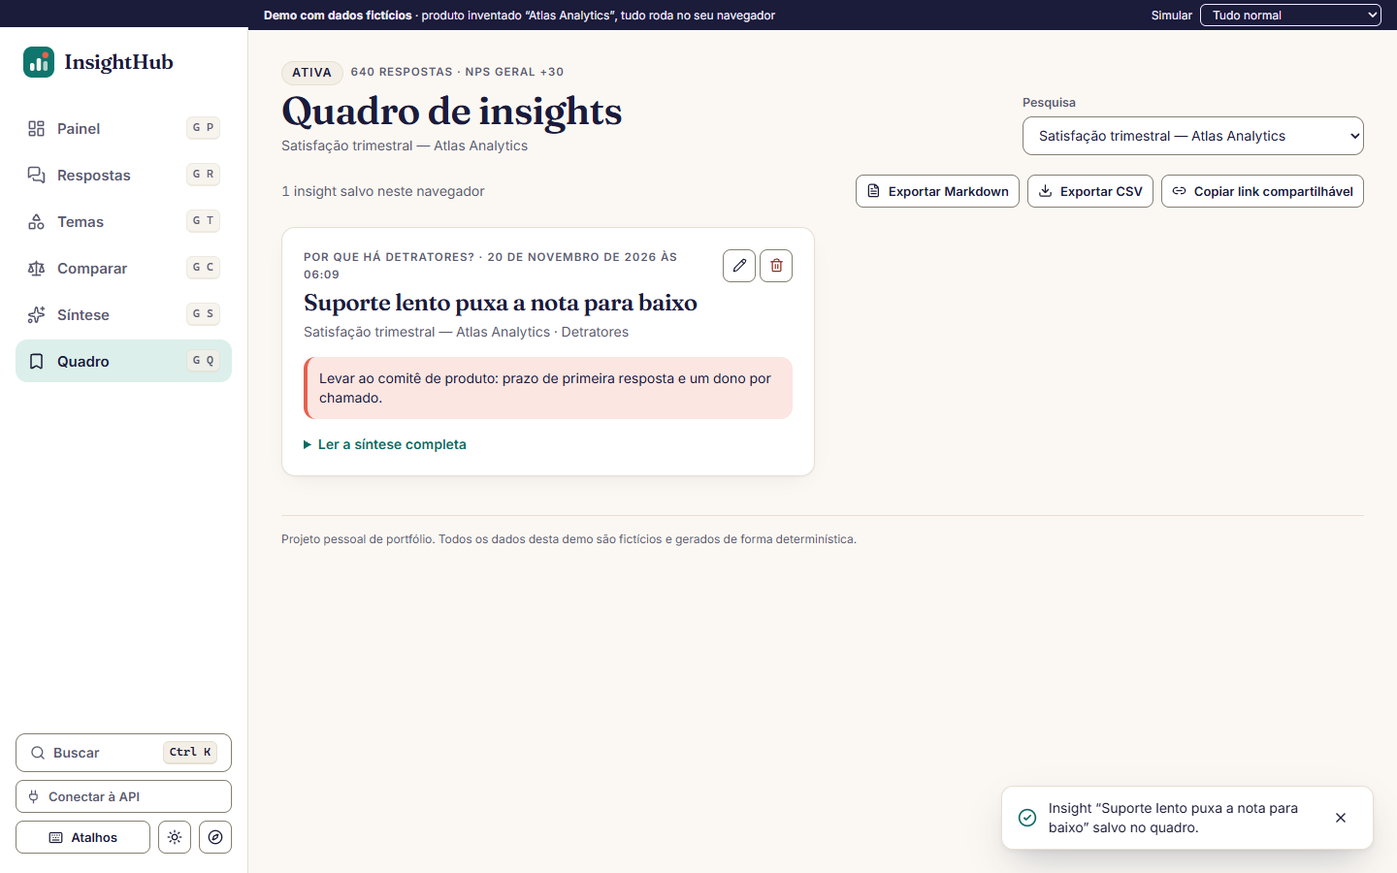
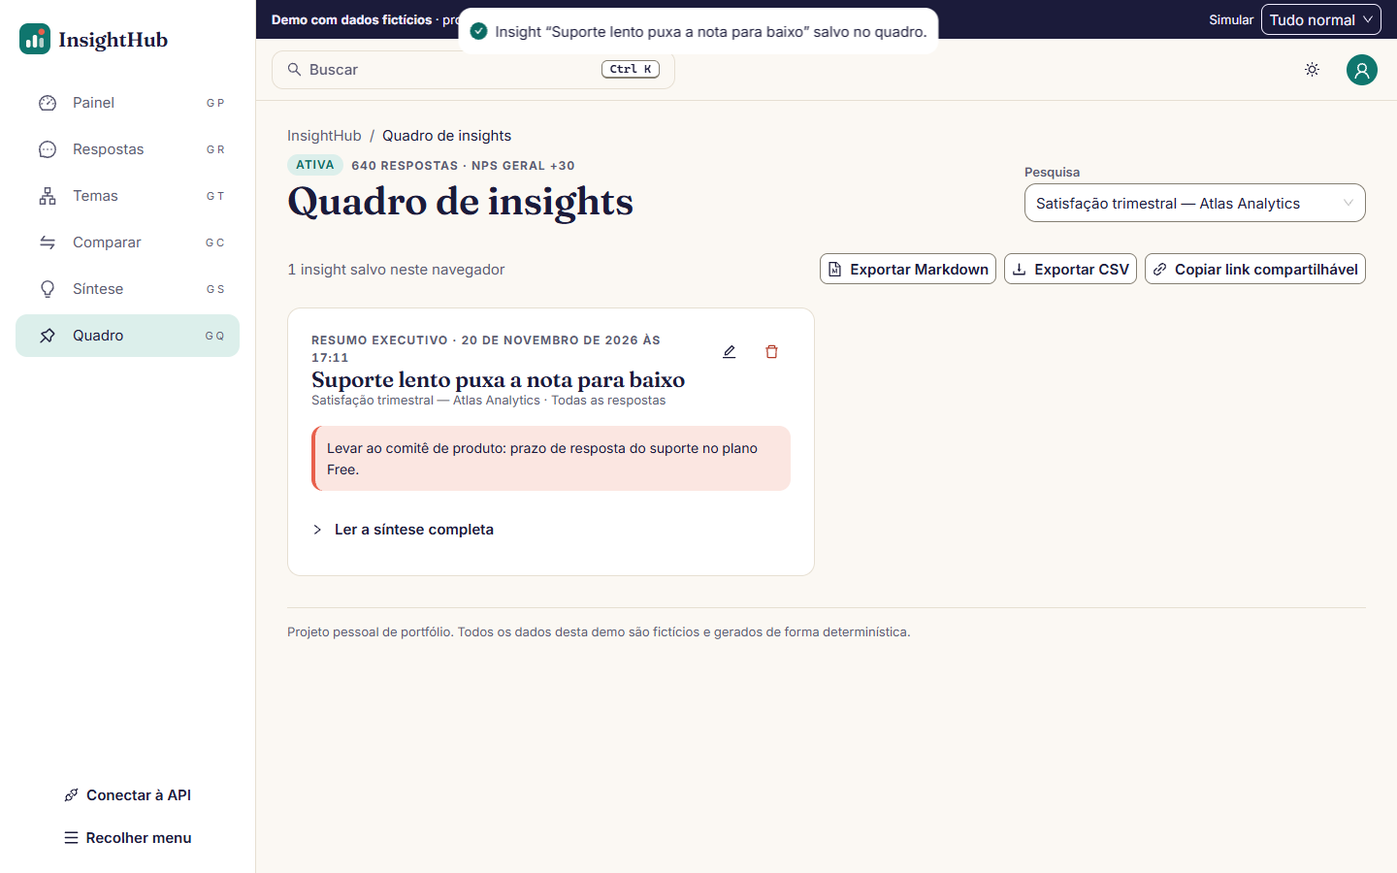
Document the new UI stack, refresh the screenshots and add ADR 0006

diff --git a/README.md b/README.md
@@ -11,7 +11,7 @@ Workspace editorial para times de pesquisa e produto: ler o NPS, ouvir o que as 
 
 ## Demo no navegador
 
-A interface roda **100% no navegador**, sem servidor: o mesmo `core` (NPS, filtros, temas, comparação, síntese extrativa) processa o seed fictício localmente, com latência simulada. Demo publicada: <https://nasckdev.github.io/insighthub/>.
+A interface é feita com **Ant Design e Apache ECharts**, atrás de uma camada própria (`apps/web/src/ui`) e documentada num **Storybook** (publicado em [/storybook/](https://nasckdev.github.io/insighthub/storybook/)). Ela roda **100% no navegador**, sem servidor: o mesmo `core` (NPS, filtros, temas, comparação, síntese extrativa) processa o seed fictício localmente, com latência simulada. Demo publicada: <https://nasckdev.github.io/insighthub/>.
 
 | Painel: NPS em medidor, evolução, temas e falas | Comparar segmentos com aviso de amostra pequena |
 | --- | --- |
@@ -25,32 +25,65 @@ A interface roda **100% no navegador**, sem servidor: o mesmo `core` (NPS, filtr
 | --- | --- | --- |
 | ![Mapa de temas com o tema Suporte aberto](docs/prints/temas-desktop.png) | ![Painel no tema escuro](docs/prints/visao-geral-escuro-desktop.png) | ![Quadro com um insight salvo](docs/prints/quadro-desktop.png) |
 
-Outros prints em [`docs/prints/`](docs/prints): diálogo de Filtros (`filtros-desktop.png`, `filtros-celular.png`), respostas com facetas (`respostas-desktop.png`), temas no escuro (`temas-escuro-desktop.png`) e as telas de celular (`temas-celular.png`, `quadro-celular.png`, `visao-geral-escuro-celular.png`).
+Outros prints em [`docs/prints/`](docs/prints): Filtros (`filtros-desktop.png`, `filtros-celular.png`), respostas com facetas (`respostas-desktop.png`, `respostas-celular.png`), temas no escuro (`temas-escuro-desktop.png`, `temas-escuro-celular.png`), comparação no celular (`comparar-amostra-pequena-celular.png`) e as demais telas de celular (`temas-celular.png`, `quadro-celular.png`, `visao-geral-escuro-celular.png`). Desktop em 1440×900 (DPR 1) e celular em 390×844 (DPR 2).
 
 ## O que existe em cada tela
 
 - **Painel**: medidor de NPS com as quatro zonas de leitura, evolução semanal em área suave, distribuição das notas, temas principais com sentimento e **falas em destaque**. Filtros de período, plano, região, função, tema e busca vivem na URL (`#/s/s-atlas-q3/visao-geral?plan=pro&theme=suporte&from=2026-08-10`) e são validados pelos schemas Zod do `core`.
-- **Respostas**: tabela com **facetas e contagens ao vivo**, busca com o termo destacado, ordenação, paginação, tags de tema e sentimento, e **painel lateral de detalhe** (folha inferior no celular). No celular a tabela vira lista de cartões.
-- **Temas**: **treemap** em que a área é o volume e a cor/ícone é o sentimento. Clicar abre o drill-down com as falas, e dali você vai para a tabela filtrada ou pede a síntese só daquele tema.
-- **Comparar**: segmentos por plano, região ou função em **barras divergentes** contra o NPS geral, cartões lado a lado, destaque da maior diferença e **aviso de amostra pequena** (menos de 10 respostas): o segmento aparece listrado e com selo, nunca escondido.
+- **Respostas**: tabela do Ant Design com **facetas e contagens ao vivo** (no celular, dentro do `Drawer` de Filtros), busca com o termo destacado, ordenação, paginação, tags de tema e sentimento, e **painel lateral de detalhe** (folha inferior no celular). No celular a tabela vira lista de cartões.
+- **Temas**: **treemap do ECharts** em que a área é o volume e o preenchimento (liso, pontilhado, listrado) com a palavra é o sentimento. Clicar abre o drill-down com as falas, e dali você vai para a tabela filtrada ou pede a síntese só daquele tema.
+- **Comparar**: abas de plano, região ou função e **barras divergentes** contra o NPS geral, cartões lado a lado, destaque da maior diferença e **aviso de amostra pequena** (menos de 10 respostas): o segmento aparece listrado e com selo, nunca escondido.
 - **Síntese com IA**: cinco **modelos de pergunta** (resumo executivo, por que há detratores, o que os promotores valorizam, risco no plano Free, oportunidades), streaming com **cancelar** e **tentar de novo**, citações `[#id]` clicáveis que abrem a resposta e **salvar no quadro**.
-- **Quadro de insights**: cards com título e nota editáveis, exclusão com **desfazer**, exportação em **Markdown e CSV** e **link compartilhável** que outra pessoa pode importar.
+- **Quadro de insights**: cards com título e nota editáveis, exclusão com **desfazer** (aviso com ação), exportação em **Markdown e CSV** e **link compartilhável** que outra pessoa pode importar.
 - **Em todo lugar**: paleta de comandos (`Ctrl/⌘ K`) com busca real nos comentários, atalhos documentados no modal `?` (`G` e uma letra para ir a cada tela, `/` para buscar, `T` para o tema), tour opcional de 3 passos (um chip discreto no Painel, que nunca abre sozinho), tema claro/escuro com a escolha lembrada, toasts, esqueletos com brilho e ilustrações próprias nos estados vazios e de erro.
 - **Estados**: carregando, vazio, erro com "Tentar de novo" e resultado parcial em todas as telas. O seletor **Simular** na faixa da demo força "falhar a próxima chamada" e "respostas parciais".
 
+## Stack e licenças
+
+- **React 19, Vite, TanStack Router e Query**, TypeScript estrito, Zod na borda.
+- **Ant Design 6** para os componentes e **Apache ECharts 6** (`echarts/core` enxuto, renderizador SVG) para os gráficos, sempre através dos wrappers de `apps/web/src/ui`.
+- **Tema central** (`ui/theme.ts`): a paleta do InsightHub vira tokens do `ConfigProvider` (`colorPrimary`, `colorBgLayout`, `fontFamily`, `borderRadius`, `controlHeight`, tokens de Layout, Menu, Table e Card), com `theme.darkAlgorithm` no escuro. Fraunces nos títulos e números, Inter na interface (auto-hospedadas), petróleo `#0F766E`, coral `#E8604C`, papel `#FBF8F3`, tinta `#1B1B3A`, escuro `#0E1514`. As decisões estão no [ADR 0006](docs/adr/0006-ant-design-echarts-e-camada-de-ui.md).
+- **Proteção do padrão**: uma regra `no-restricted-imports` barra `antd`, `echarts`, `echarts-for-react`, `@ant-design/icons` e `dayjs` fora de `src/ui`. Todas as versões do `package.json` são exatas.
+
+| Dependência | Versão | Licença | Uso |
+| --- | --- | --- | --- |
+| antd | 6.7.1 | MIT | componentes |
+| @ant-design/icons | 6.3.4 | MIT | ícones (só em `src/ui`) |
+| echarts | 6.1.0 | Apache-2.0 | gráficos |
+| echarts-for-react | 3.1.0 | MIT | integração React do ECharts |
+| dayjs | 1.11.23 | MIT | datas do calendário (dependência do antd, só em `src/ui`) |
+| react, react-dom | 19.3.1 | MIT | interface |
+| @tanstack/react-router, @tanstack/react-query | exatas no `package.json` | MIT | rotas por hash e cache |
+| zod | exata no `package.json` | MIT | validação |
+| @fontsource-variable/fraunces, @fontsource-variable/inter | exatas no `package.json` | OFL-1.1 | fontes auto-hospedadas |
+| storybook, @storybook/react-vite, addon-a11y, addon-docs | 10.6.8 | MIT | documentação dos componentes (dev) |
+| vite, vitest, @playwright/test, @axe-core/playwright | exatas no `package.json` | MIT, MPL-2.0 (axe-core) | build e testes (dev) |
+
+`npm audit --omit=dev` não aponta vulnerabilidades. O `npm audit` completo aponta 4 de severidade moderada, todas em `glob` e `minimatch` dentro do `@storybook/react-vite` (ferramenta de desenvolvimento, fora do bundle publicado).
+
+### Camada de UI e Storybook
+
+`apps/web/src/ui` tem os wrappers (nomes e props seguem o contrato do padrão: `variant`, `size`, `loading`, `disabled`, `icon` e `danger` no botão): `AppButton`, `AppIconButton`, `AppInput`, `AppSearchInput`, `AppTextArea`, `AppPasswordInput`, `AppSelect`, `AppCheckbox`, `AppSwitch`, `AppDatePicker`, `AppForm`/`AppFormItem`, `AppTable`, `AppList`, `AppCard`, `AppStatistic`, `AppTag`/`AppStatus`, `AppModal`, `AppDrawer`, `AppTabs`, `AppSteps`, `AppEmpty`, `AppSkeleton`, `AppAlert`/`AppResult`, `AppTooltip`, `AppDropdown`/`AppMenu`, `AppAvatar`, `AppPagination`, `AppSegmented`, `AppRadioCards`, `AppCollapse`, `useToast`, `AppLayout`/`AppSider`, `AppPageHeader`, `AppStack`/`AppGrid`/`AppTitle`/`AppText` e `AppChart`. Cada um tem `*.stories.tsx` ao lado, com estados (padrão, desabilitado, carregando, erro, vazio) e controles.
+
+```bash
+npm run storybook -w @insighthub/web        # http://localhost:6006
+npm run build-storybook                     # apps/web/storybook-static (roda no CI)
+```
+
 ## Identidade
 
-Fraunces nos títulos, nos números de destaque e nas falas dos clientes; Inter na interface. Papel `#FBF8F3`, tinta `#1B1B3A`, petróleo `#0F766E`, coral `#E8604C`, âmbar e ameixa de apoio; escuro com fundo `#0E1514`. Cantos de 10 a 14 px, linhas finas e sombras leves. As decisões estão no [ADR 0003](docs/adr/0003-identidade-editorial-e-graficos-proprios.md).
+Editorial e calma: papel quente, tinta escura, petróleo como cor de ação e coral como destaque, cantos de 12 a 14 px, linhas finas e quase nenhuma sombra. Layout corporativo do Ant Design (Sider recolhível, Header com busca e menu da conta, trilha de navegação, cartões com `Statistic`, tabelas, `Drawer`, `Modal`, `Result` e `Empty`) com a voz de revista de dados da Fraunces.
 
 ## Acessibilidade
 
 Meta WCAG 2.2 AA, verificada com ferramenta e não por impressão:
 
-- **Contraste calculado nos dois temas**: `apps/web/src/lib/contrast.test.ts` lê os tokens de `styles.css` e confere 29 pares (4,5:1 para texto, 3:1 para gráficos e controles). Ele provou que o âmbar da marca falhava (2,4:1) e o gráfico passou a usar um tom mais escuro.
-- **axe-core sem violações** em todas as telas, nos dois temas, em 360, 768, 1024 e 1440 px, e nos diálogos (a geometria de cada um, dentro da viewport, também é medida no E2E, porque o axe não vê um diálogo fora da tela); alvos de toque de 44 px em dispositivos de toque, e no painel de detalhe e na paleta de comandos (E2E com `@axe-core/playwright`).
-- Teclado completo: link "Pular para o conteúdo", foco visível, modais com foco preso, `Esc` fecha e devolve o foco a quem abriu; gráficos focáveis que se percorrem com as setas.
-- Cor nunca é o único sinal (ícone e palavra em faixas e sentimentos), alvos de 44 px em dispositivos de toque, `safe-area-inset` respeitado, sem rolagem horizontal de 320 a 1440 px.
-- Todo gráfico tem descrição para leitor de tela e **alternativa em tabela**. Animações desligam com `prefers-reduced-motion`.
+- **Contraste calculado nos dois temas**: `apps/web/src/lib/contrast.test.ts` calcula os pares a partir da paleta de `ui/theme.ts` (4,5:1 para texto, 3:1 para gráficos e controles) e também confere os tokens que o Ant Design deriva sozinho, como o texto secundário e a borda de campo.
+- **axe-core sem violações** nas 6 telas, nos dois temas, em **360 e 1440 px**, e em 390 px com toque (E2E com `@axe-core/playwright`); a **geometria dos diálogos** (Filtros, paleta, atalhos, Mais opções, Conectar à API e detalhe da resposta) é medida dentro da viewport em 1440, 768 e 390 px, porque o axe não vê um diálogo fora da tela.
+- **Alvos de 44 px** em celular e telas de toque (o `controlHeight` do tema sobe de 40 para 44), checados no E2E.
+- Teclado completo: link "Pular para o conteúdo", foco visível, diálogos do Ant Design com foco preso e `Esc`, que devolve o foco a quem abriu o painel de detalhe.
+- Cor nunca é o único sinal: ícone e palavra nas faixas e nos sentimentos, listras nos segmentos de amostra pequena, texturas no mapa de temas.
+- Todo gráfico do ECharts é exposto como uma imagem com descrição para leitor de tela e tem **alternativa em tabela**; o mapa de temas ganhou uma fileira de botões, um por tema, para quem não usa o mouse. Animações desligam com `prefers-reduced-motion`.
 
 ### Camada de dados e "Conectar à API"
 
@@ -78,21 +111,22 @@ Copie `apps/web/dist` para onde quiser (ex.: `<site>/projetos/insighthub/`) e si
 
 ## Desempenho
 
-Rotas carregadas sob demanda: cada tela é um chunk próprio. A paleta de comandos, o modal de atalhos, o cartão do tour e o motor de animação (`LazyMotion` com features assíncronas) só são baixados quando precisam. O seed fictício vem em um chunk à parte (`import()` no `main.tsx`), e o contador animado usa `requestAnimationFrame` em vez da função `animate` da biblioteca de animação, o que tirou esse motor do primeiro carregamento. O pacote `core` declara `sideEffects: false` e os chunks de vendor têm nomes próprios (`vendor-react`, `vendor-tanstack`, `vendor-zod`).
+Rotas carregadas sob demanda (cada tela é um chunk). O ECharts (instância, renderizador SVG e os cinco tipos de gráfico) é um chunk à parte, carregado depois da primeira pintura; o calendário do `AppDatePicker`, as tabelas alternativas dos gráficos, a paleta de comandos e o modal de atalhos só são baixados quando alguém os usa. O seed fictício vem em outro chunk (`import()` no `main.tsx`). O `package.json` do web declara `sideEffects: ["**/*.css"]`, o que deixa a camada `ui` ser sacudida pelo bundler (sem isso o primeiro carregamento levava todos os componentes do Ant Design).
 
-Medido com gzip nível 9 sobre o `apps/web/dist` do build portátil:
+Medido com gzip nível 9 sobre o `apps/web/dist` do build portátil (mesmo método antes e depois):
 
-| | Antes da revisão | Agora |
+| | Antes (design à mão) | Depois (Ant Design + ECharts) |
 | --- | --- | --- |
-| JavaScript do primeiro carregamento (os arquivos que o `index.html` baixa) | 199,5 kB | **173,6 kB** (−13%) |
-| Seed e cliente da demo (chunk à parte, lido logo no início) | dentro dos 199,5 kB | 8,0 kB |
-| Motor de animação (depois da primeira pintura) | dentro dos 199,5 kB | 18,3 kB |
-| CSS | 8,2 kB | 8,3 kB |
-| Telas sob demanda: Painel / Síntese / Quadro / Comparar / Temas / Respostas | 6,4 / 4,3 / 2,9 / 3,0 / 2,4 / 2,0 kB | 6,4 / 4,8 / 3,3 / 3,1 / 2,6 / 2,2 kB |
-| Paleta de comandos (sob demanda) | no primeiro carregamento | 2,5 kB |
-| Fontes WOFF2 (latim, sem CDN) | 130,5 kB | 130,5 kB |
+| JavaScript do primeiro carregamento (arquivos do `index.html`, incluindo os pré-carregados) | 173,6 kB | **401,5 kB** (+131%) |
+| JavaScript realmente baixado ao abrir o Painel (inclui o ECharts, depois da primeira pintura) | 173,6 kB + telas | 625,6 kB |
+| JavaScript realmente baixado ao abrir Respostas | 173,6 kB + telas | 507,8 kB |
+| ECharts (`echarts/core`, sob demanda) | não havia (gráficos próprios) | 203,3 kB |
+| Calendário (sob demanda) / tabela do Ant Design | não havia | 35,6 kB / 56,7 kB |
+| CSS | 8,3 kB | 3,9 kB (o Ant Design injeta o resto em tempo de execução) |
+| Fontes WOFF2 (latim, sem CDN) | 127,5 kB | 127,5 kB |
+| `apps/web/dist` inteiro | 839 kB, 48 arquivos | 2.376 kB, 62 arquivos |
 
-Os vendors principais continuam necessários para desenhar a primeira tela: React 65,8 kB, TanStack 34,8 kB e Zod 23,1 kB (valida os filtros da URL). `apps/web/dist` inteiro: 836 kB em disco, 46 arquivos.
+O custo do Ant Design é real: o primeiro carregamento mais que dobrou, e o Painel baixa 625,6 kB de JavaScript. Saíram Tailwind, `motion` e `lucide-react`, e ficou de fora do bundle o que vinha de matemática própria de gráficos. Os vendors de React (65,8 kB), TanStack (34,8 kB) e Zod (23,1 kB) continuam iguais.
 
 ## Arquitetura
 
@@ -174,7 +208,7 @@ curl -N -X POST http://localhost:3333/api/surveys/s-atlas-q3/synthesis \
 
 - **Filtros persistidos na URL** para visões compartilháveis — o schema de filtros vive no `core` e é reutilizado na borda da API. ([ADR 0002](docs/adr/0002-filtros-na-url-e-schemas-compartilhados.md))
 - **`InsightProvider`** como contrato da síntese: provider local extrativo (temas, sentimento e citação representativa com id da resposta) e provider Claude opcional. ([ADR 0001](docs/adr/0001-insight-provider-com-fallback-local.md))
-- **Identidade editorial, contraste provado em teste e gráficos em SVG próprio.** ([ADR 0003](docs/adr/0003-identidade-editorial-e-graficos-proprios.md))
+- **Identidade editorial e contraste provado em teste.** ([ADR 0003](docs/adr/0003-identidade-editorial-e-graficos-proprios.md)) **Ant Design, ECharts e a camada `src/ui`**, com tema central e Storybook. ([ADR 0006](docs/adr/0006-ant-design-echarts-e-camada-de-ui.md))
 - **Quadro de insights local, exportação segura e link compartilhável sem servidor.** ([ADR 0004](docs/adr/0004-quadro-de-insights-local-e-link-compartilhavel.md))
 - **Modo http com token em memória, `sort` na API, carga compartilhada e camadas em portal**: ([ADR 0005](docs/adr/0005-modo-http-token-em-memoria-e-camadas-no-portal.md))
 - **Rastreabilidade**: citações `[#id]` geradas pelo modelo são validadas contra o conjunto de fontes enviado; ids inexistentes são descartados e a citação usa o texto real da resposta, nunca o texto do modelo. Na interface, só id confirmado por um evento `citation` vira botão.
@@ -183,16 +217,16 @@ curl -N -X POST http://localhost:3333/api/surveys/s-atlas-q3/synthesis \
 
 ## Testes
 
-Números reais da última rodada (Vitest 5 e Playwright 1.65):
+Números reais da última rodada (Vitest 5 e Playwright 1.65). Em máquina lenta os testes de componente demoram (cerca de 15 a 20 minutos no total, com `--pool=threads --maxWorkers=1`) e os que abrem um chunk carregado sob demanda (paleta, atalhos, tabela alternativa) podem estourar o prazo se outra coisa estiver rodando ao mesmo tempo:
 
 | Camada | Arquivos | Testes | O que cobre |
 | --- | --- | --- | --- |
 | `packages/core` | 8 | 79 | NPS (arredondamento simétrico), filtros (tema por palavra inteira, busca sem acento e por tema, datas reais, período invertido), ordenação, facetas, temas e sentimento com aviso de amostra pequena, falas em destaque sem quase-duplicatas, síntese e modelos de pergunta, texto sem NPS tautológico, saneamento de comentários, citações, treemap, domínio do quadro (escape de Markdown, CSV seguro, ids duplicados, link e seu limite), seed |
 | `apps/api` | 2 | 26 | Envelope, paginação, `sort` (SQL e em memória), paridade de busca com o navegador (acento, caixa, tema), 400/404, JSON inválido, `meta` honesto e `truncated`, SSE, CORS, preflight que não gasta limite, 429, token Bearer, prompt do Claude (delimitador por requisição, comentário hostil neutralizado) |
-| `apps/web` (unitários e de componente, app inteiro sobre a história em memória) | 17 | 167 | 59 pares de contraste nos dois temas; adaptador http (sort, 401/403, 4xx sem retry, carga compartilhada, token só na síntese, SSE malformado); "Conectar à API" (token só em memória, URL inválida, API fora do ar, voltar para a demo); síntese que não fica presa em "Gerando"; store do quadro (versão, migração, dedupe, outras abas); destaque com acento; camadas em portal, `inert` e Esc só na camada de cima; tour que nunca abre sozinho; busca sincronizada com a URL; datas inválidas; estados de carregando/vazio/erro/parcial; mapa de temas; quadro (editar com foco, desfazer, importar link, link grande demais); paleta e atalhos |
-| `apps/web` E2E (Playwright + axe) | 3 | 31 | axe sem violações nas 6 telas × 2 temas; **geometria dos diálogos** (Filtros, paleta, atalhos, Mais, Conectar e detalhe da resposta dentro da viewport, em 1440, 768 e 390 px); axe e **alvos de toque de 44 px** em 6 telas a 390 px com toque; fluxos de painel, filtro, resposta, síntese e quadro; busca por tema; tour como chip; primeiro Tab no "Pular para o conteúdo"; reload em rota interna sem erro de console nem 404 |
+| `apps/web` (unitários e de componente, app inteiro sobre a história em memória) | 16 | 200 | pares de contraste da paleta e dos tokens derivados do Ant Design nos dois temas; adaptador http (sort, 401/403, 4xx sem retry, carga compartilhada, token só na síntese, SSE malformado); "Conectar à API" (token só em memória, URL inválida, API fora do ar, voltar para a demo); síntese que não fica presa em "Gerando"; store do quadro (versão, migração, dedupe, outras abas); destaque com acento; painéis em portal e `Esc`; tour que nunca abre sozinho; busca sincronizada com a URL; datas inválidas; estados de carregando/vazio/erro/parcial; opções dos gráficos do ECharts (a instância é trocada por um marcador no jsdom); quadro (editar com foco, desfazer, importar link, link grande demais); paleta e atalhos |
+| `apps/web` E2E (Playwright + axe) | 3 | 43 | axe sem violações nas 6 telas × 2 temas em **1440 e 360 px** (24 testes); **geometria dos diálogos** (Filtros, paleta, atalhos, Mais, Conectar e detalhe da resposta dentro da viewport, em 1440, 768 e 390 px); axe e **alvos de toque de 44 px** em 6 telas a 390 px com toque; fluxos de painel, filtro, resposta (o `Esc` devolve o foco), síntese e quadro; busca por tema; tour como chip; primeiro Tab no "Pular para o conteúdo"; reload em rota interna sem erro de console nem 404 |
 
-Total: **272 testes em Vitest** (79 + 26 + 167) e **31 E2E**, todos passando. Lint, typecheck e build portátil limpos.
+Total: **305 testes em Vitest** (79 + 26 + 200) e **43 E2E**. Lint, typecheck, `build:portable` e `build-storybook` limpos. O Storybook tem 130 histórias (32 componentes, mais a página de tema).
 
 ## Roadmap
 
@@ -200,6 +234,7 @@ Total: **272 testes em Vitest** (79 + 26 + 167) e **31 E2E**, todos passando. Li
 - [x] Deploy do front com dados mock no GitHub Pages.
 - [x] Identidade editorial, temas com treemap, quadro de insights, paleta de comandos, atalhos e tour.
 - [x] Playwright + `@axe-core/playwright` nos fluxos principais, com geometria dos diálogos e alvos de toque.
+- [x] Refactor da interface para Ant Design e ECharts atrás de `src/ui`, tema central, Storybook e E2E com axe a 360 e 1440 px nos dois temas.
 - [x] Modo http com "Conectar à API", token só em memória e `sort` no contrato da API.
 - [ ] Endpoints de agregação na API (hoje painel, temas e facetas do adaptador `http` agregam no cliente, com uma carga compartilhada).
 - [ ] Persistir o quadro no servidor e compartilhar por id curto.

diff --git a/docs/adr/0006-ant-design-echarts-e-camada-de-ui.md b/docs/adr/0006-ant-design-echarts-e-camada-de-ui.md
@@ -1,0 +1,25 @@
+# ADR 0006 — Ant Design, ECharts e a camada `src/ui`
+
+- Status: aceito (substitui a parte visual do [ADR 0003](0003-identidade-editorial-e-graficos-proprios.md))
+- Data: 2026-11-20
+
+## Contexto
+
+O dono pediu para trocar o design feito à mão pelo padrão de UI dele: Ant Design para os componentes, Apache ECharts para os gráficos, wrappers próprios no lugar do uso direto das bibliotecas, tema central e Storybook. A identidade do InsightHub (editorial, calma, Fraunces e Inter, petróleo e coral) continua, agora aplicada como tokens do Ant Design.
+
+## Decisão
+
+- **`apps/web/src/ui/` é a única porta para `antd`, `echarts`, `echarts-for-react`, `@ant-design/icons` e `dayjs`.** Uma regra `no-restricted-imports` no `eslint.config.js` barra essas importações em qualquer outro lugar (o `.storybook/` fica de fora porque só monta o provider). As telas usam `AppButton`, `AppTable`, `AppChart` e os demais.
+- **Tema central em `ui/theme.ts`**: a paleta dos dois temas é a fonte única. `buildTheme` a converte em tokens do `ConfigProvider` (`colorPrimary`, `colorBgLayout`, `fontFamily`, `borderRadius`, `controlHeight`, tokens de Layout, Menu, Table, Card...) com `theme.darkAlgorithm` no escuro, e `paletteCss` a escreve como variáveis `--ih-*` antes da primeira pintura (para o CSS próprio e para as opções do ECharts, que não leem variáveis CSS). O teste de contraste calcula os pares a partir dessa mesma paleta e também confere os tokens que o Ant Design deriva sozinho (texto secundário, borda de campo).
+- **Alvos de 44 px** em celular e telas de toque: `controlHeight` sobe de 40 para 44 quando `(pointer: coarse), (max-width: 767px)`.
+- **Ícones decorativos por padrão**: o pacote de ícones dá `role="img"` e um `aria-label` em inglês a cada ícone, o que vazava para o nome dos botões ("reload Tentar de novo"). `ui/icons.tsx` os reexporta com `aria-hidden`.
+- **ECharts enxuto e sob demanda**: `echarts/core` registra só barras, linha, medidor, treemap, grade, tooltip, markLine, aria e o renderizador SVG. A instância (`chart-canvas.tsx`) é um chunk à parte, carregado depois da primeira pintura. Cada gráfico fica exposto como uma imagem com texto alternativo, e a tabela equivalente (carregada só ao alternar) é a versão navegável por teclado. O mapa de temas ganhou uma fileira de botões, um por tema, para quem não usa o mouse.
+- **Celular**: o `Sider` fixo (a partir de 1200 px) vira barra inferior mais `Drawer`; tabelas viram listas de cartões abaixo de 768 px; painéis laterais viram folhas inferiores.
+- **Datas**: `AppDatePicker` trabalha com strings ISO (o formato dos filtros na URL) e carrega o calendário e o `dayjs` sob demanda.
+- **Storybook 10** em `apps/web` com stories ao lado de cada wrapper (estados e controles), tema claro/escuro na barra e o addon de acessibilidade. `build-storybook` roda no CI e o resultado é publicado em `/storybook/` junto da demo.
+
+## Consequências
+
+- O Ant Design pesa: o JavaScript do primeiro carregamento passa de 173,6 kB para o valor do README, e o ECharts (203 kB gzip) vem depois da primeira pintura. Em troca saem Tailwind, `motion` e `lucide-react`, e some a matemática própria de gráficos (`curve.ts`).
+- Cada novo componente de tela deve nascer como wrapper em `src/ui`, com story.
+- Foram necessários ajustes para testar: `NODE_ENV=development` no Vitest (os pacotes `rc-*` devolvem o id constante `test-id` em `NODE_ENV=test`, o que quebra `aria-labelledby`) e um stub do `chart-canvas`, já que o jsdom não tem layout.

diff --git a/docs/adr/0003-identidade-editorial-e-graficos-proprios.md b/docs/adr/0003-identidade-editorial-e-graficos-proprios.md
@@ -1,6 +1,6 @@
 # ADR 0003 — Identidade editorial e gráficos em SVG próprio
 
-- Status: aceito
+- Status: aceito (a parte visual foi substituída pelo [ADR 0006](0006-ant-design-echarts-e-camada-de-ui.md))
 - Data: 2026-11-19
 
 ## Contexto
